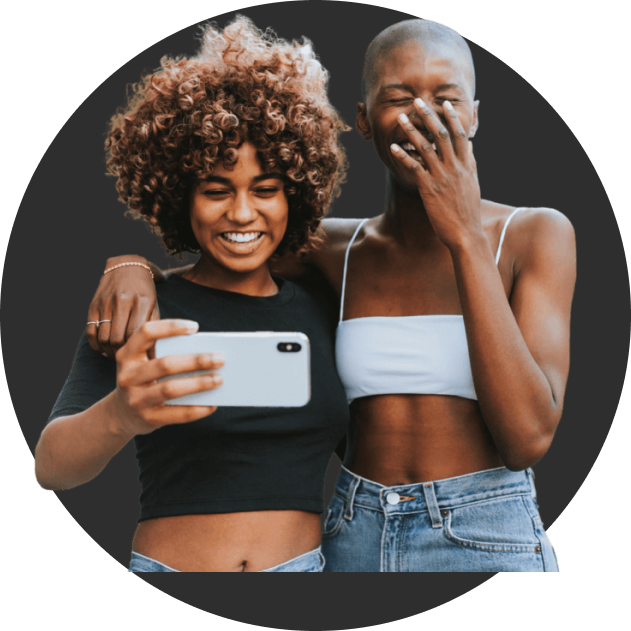
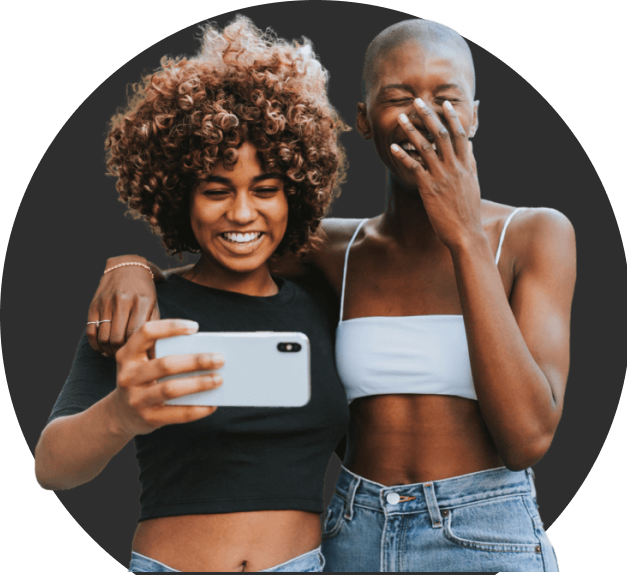
footer

diff --git a/src/components/Story.js b/src/components/Story.js
@@ -1,0 +1,45 @@
+import React from 'react';
+
+const Story = () => {
+  return (
+    <div>
+      <h1>Share your amazing story!</h1>
+
+      <form>
+        <div>
+          <label htmlFor='picture'>Upload your Picture</label>
+          <input type='text' name='picture' id='picture' />
+        </div>
+        <div>
+          <div>
+            <label htmlFor='fname'>First Name</label>
+            <input type='text' name='fname' id='fname' />
+          </div>
+          <div>
+            <label htmlFor='lname'>First Name</label>
+            <input type='text' name='lname' id='lname' />
+          </div>
+        </div>
+        <div>
+          <label htmlFor='story'>First Name</label>
+          <textarea name='story' id='story' cols='30' rows='10'></textarea>
+        </div>
+        <div>
+          <p>What did you interact with Vasiti as?</p>
+
+          <label htmlFor='customer'>
+            <input type='radio' name='customer' id='customer' />
+            Customer
+          </label>
+
+          <label htmlFor='vendor'>
+            <input type='radio' name='vendor' id='vendor' />
+            Vendor
+          </label>
+        </div>
+      </form>
+    </div>
+  );
+};
+
+export default Story;

diff --git a/src/styles/MainStyles.js b/src/styles/MainStyles.js
@@ -14,6 +14,7 @@ export const ExperienceContent = styled.section`
   width: 90%;
   max-width: 1200px;
   margin: 0 auto 0;
+  padding: 2rem 0;
 
   > div {
     padding: 5rem 2rem 3rem;
@@ -22,6 +23,7 @@ export const ExperienceContent = styled.section`
       margin: 1rem 0;
       letter-spacing: 0.02em;
       line-height: 150%;
+      font-size: 16px;
     }
   }
 
@@ -34,14 +36,12 @@ export const ExperienceContent = styled.section`
     margin-top: 0.5rem;
   }
 
-  picture {
-    position: relative;
-  }
-
   img {
     /* position: absolute; */
+    display: block;
     width: 100%;
-    /* margin-top: 20px; */
+    margin: auto;
+    margin-top: 15%;
   }
 
   @media (min-width: 767px) {
@@ -53,6 +53,17 @@ export const ExperienceContent = styled.section`
       align-content: center;
       margin: auto;
       padding-top: 0;
+
+      p {
+        font-size: 18px;
+      }
+    }
+  }
+
+  @media (min-width: 1200px) {
+    img {
+      transform: translateY(35px);
+      margin-top: 0;
     }
   }
 `;

diff --git a/src/styles/FooterStyle.js b/src/styles/FooterStyle.js
@@ -39,6 +39,21 @@ export const FooterGrid = styled.div`
   display: grid;
   grid-template-columns: 1fr 1fr;
   grid-gap: 10px;
+  font-family: 'Roboto';
+
+  h4 {
+    margin-bottom: 2.5rem;
+    font-size: 16px;
+    line-height: 19px;
+  }
+
+  li + li {
+    margin-top: 1.5rem;
+  }
+
+  a {
+    color: #fff;
+  }
 
   @media (min-width: 767px) {
     grid-template-columns: 1fr 1fr 1fr;
